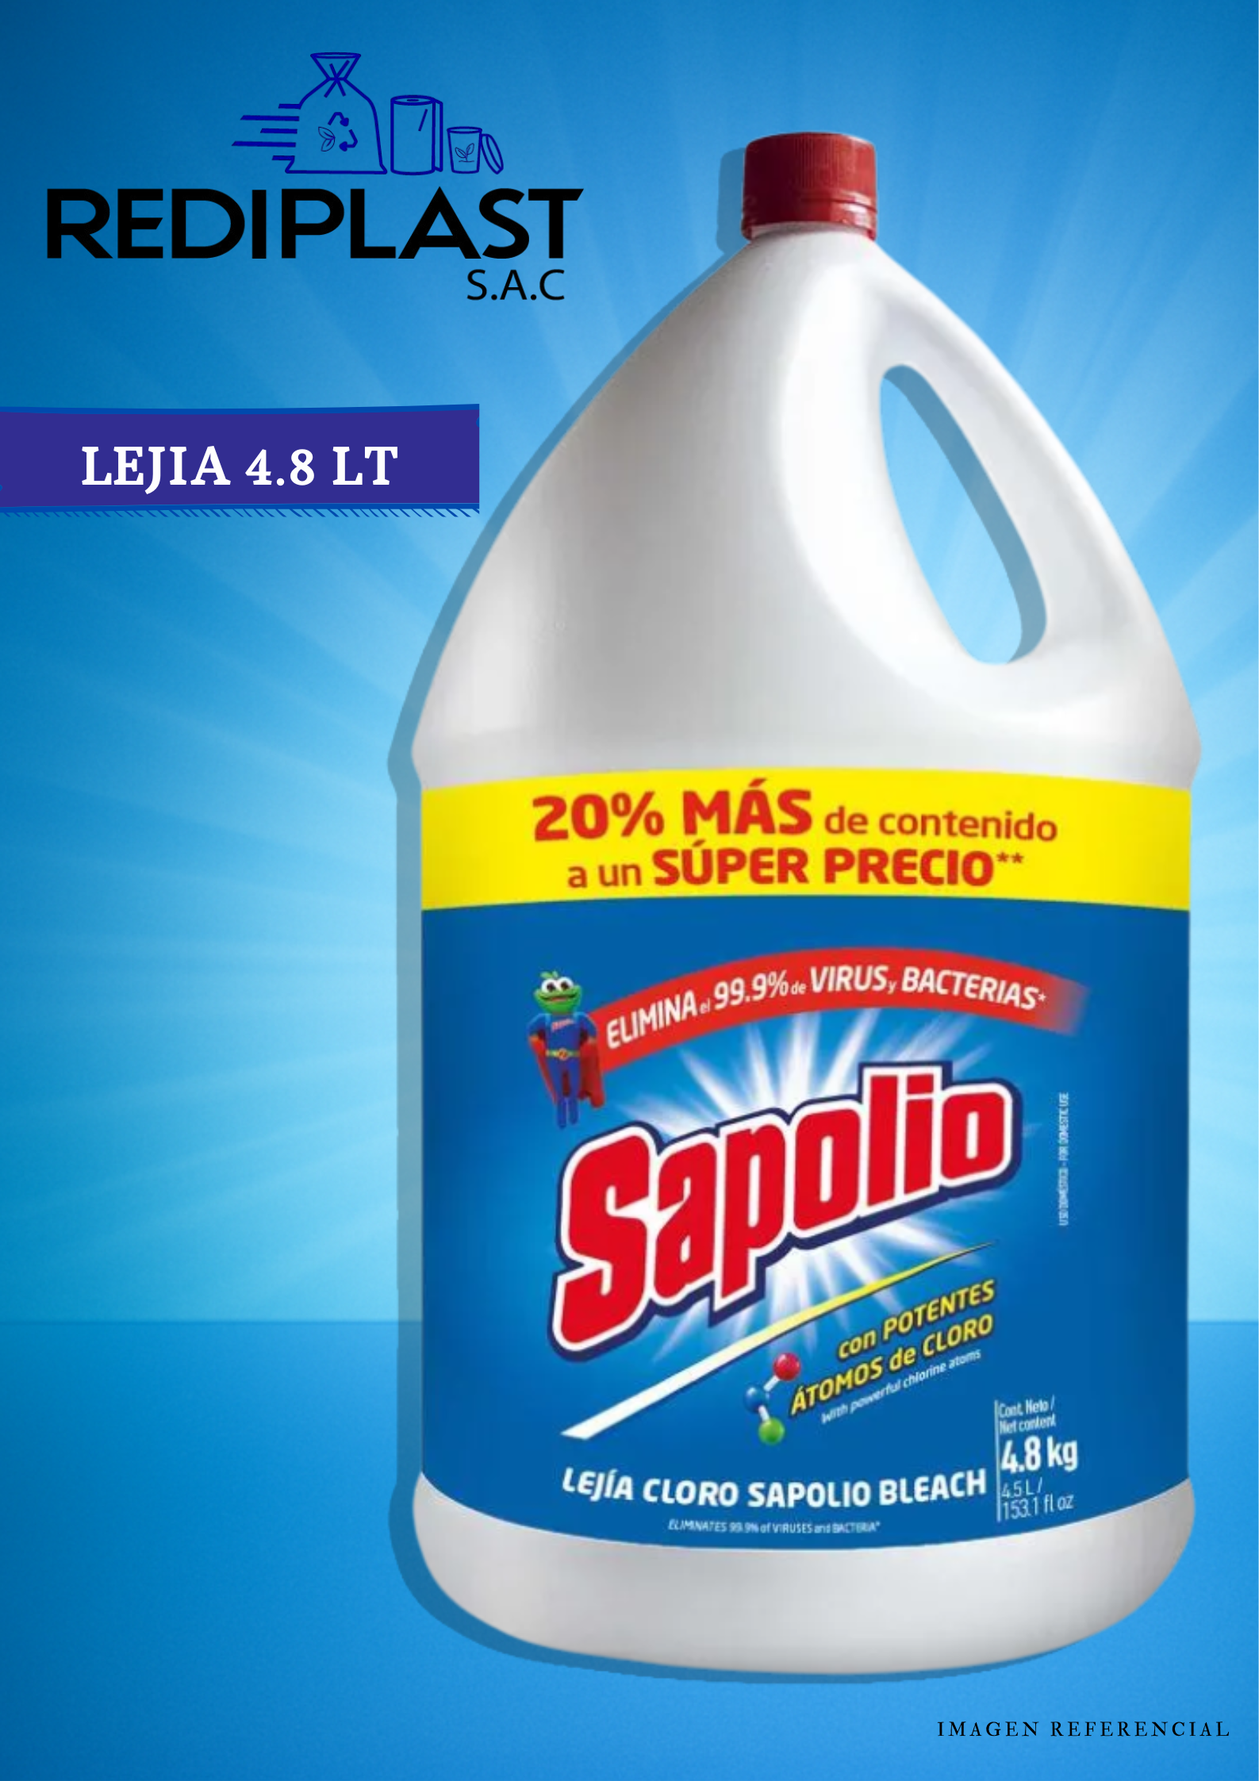
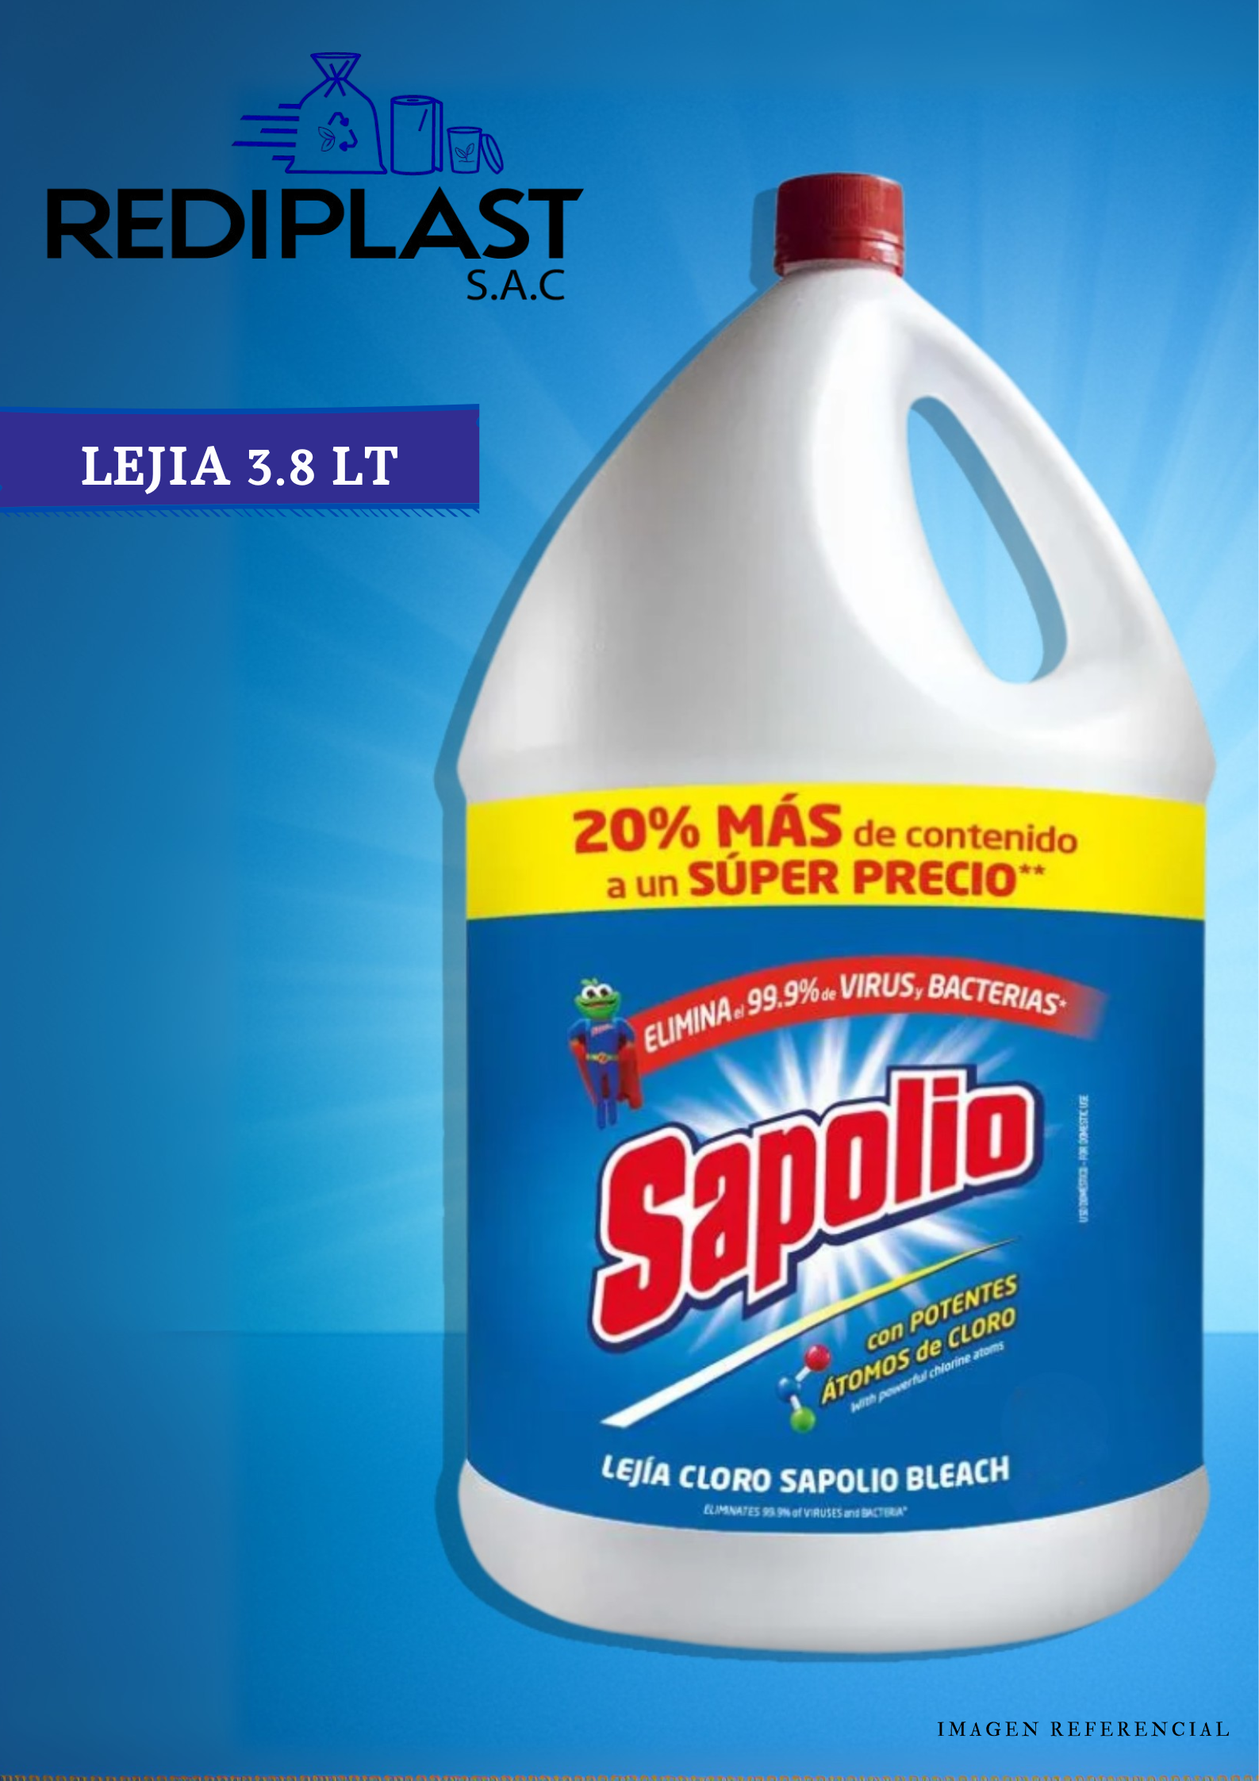
Add files via upload

diff --git a/index.html b/index.html
@@ -232,7 +232,9 @@ const PNG_SHOW_HEADER_LOGO = false; // false = oculta logo en imagen/WhatsApp
     { name: "LAETUS S.A.C.", ruc: "20492212581" },
     { name: "OKALE S.A.C.", ruc: "20522049761" },
     { name: "WYCH INVERSIONES S.A.C.", ruc: "20425476115" },
-    { name: "PRODUCTOS Y SERVICIOS VLADY S.A.C.", ruc: "20202540334" }
+    { name: "PRODUCTOS Y SERVICIOS VLADY S.A.C.", ruc: "20202540334" },
+    { name: "BRISA ASOCIADOS S.A.C", ruc: "20605268812" },
+    { name: "GRUPO IVA S.A.C", ruc: "20601211433" }
   ];
 
   const empresaSelect = document.getElementById('empresaSelect');
@@ -264,12 +266,12 @@ const PNG_SHOW_HEADER_LOGO = false; // false = oculta logo en imagen/WhatsApp
     { name:"BOLSA ZIPLOC 3X3", img:"imagenes/3-3.png", unit:"MILLAR" },
     { name:"BOLSA ZIPLOC 3X4", img:"imagenes/3-4.png", unit:"MILLAR" },
     { name:"BOLSA ZIPLOC 3X5", img:"imagenes/3-5.png", unit:"MILLAR" },
-    { name:"BOLSA EN ROLLOS", img:"imagenes/rollo1.png", unit:"MILLAR" },
+    { name:"BOLSA EN ROLLOS", img:"imagenes/rollo2.png", unit:"MILLAR" },
     { name:"BOLSA DE DESECHOS", img:"imagenes/bolsanegra.png", unit:"MILLAR" },
     { name:"BOLSA DE DESECHOS", img:"imagenes/bolsanaranja.png", unit:"MILLAR" },
     { name:"BOLSA DE DESECHOS", img:"imagenes/bolsaverde.png", unit:"MILLAR" },
     { name:"BOLSA DE DESECHOS", img:"imagenes/bolsaazul.png", unit:"MILLAR" },
-    { name:"LEJIA 4.8 LT", img:"imagenes/lejia.png", unit:"UNIDAD" },
+    { name:"LEJIA 3.8 LT", img:"imagenes/lejia.png", unit:"UNIDAD" },
     { name:"DETERGENTE 13.5 KG", img:"imagenes/detergente.png", unit:"UNIDAD" },
     { name:"VASO CORRUGADO", img:"imagenes/corrugado.png", unit:"UNIDAD" },
   ];
@@ -316,7 +318,7 @@ const PNG_SHOW_HEADER_LOGO = false; // false = oculta logo en imagen/WhatsApp
       { name:"BOLSA A/D T-SHIRT 34CMX34CM PORTAVASOS PB", code:"1010010142", unit:"MILLAR", img:"imagenes/mantenimiento.png" },
       { name:"CAJA BISAGRA PET 08 OZ FRAMBUESERO 4X4 H54 (100102)", code:"2040040053", unit:"UNIDAD", img:"imagenes/mantenimiento.png" },
       { name:"GUANTE DE NITRILO T-L (NEGRO)", code:"4020010066", unit:"PAQUETE", img:"imagenes/mantenimiento.png" },
-      { name:"BOLSA A/D ROLLO 5X10 PB-MATIC", code:"1010010078", unit:"UNIDAD", img:"imagenes/rollo1.png" }
+      { name:"BOLSA A/D ROLLO 5X10 PB-MATIC", code:"1010010078", unit:"UNIDAD", img:"imagenes/mantenimiento.png" }
     ],
         "20502301552": [/*URSUS RESTAURANTES S.A.C. - GENERADO*/ 
       { name:"BOLSA B/D P/BASURA 140 LT. NEGRO STD C/F", code:"1010020170", unit:"MILLAR", img:"imagenes/bolsanegra.png" },
@@ -328,7 +330,7 @@ const PNG_SHOW_HEADER_LOGO = false; // false = oculta logo en imagen/WhatsApp
       { name:"BOLSA BIOCOMPOST 19X20  T-SHIRT BCO - PB", code:"1010010173", unit:"MILLAR", img:"imagenes/mantenimiento.png" },
       { name:"BOLSA B/D P/BASURA 140 LT. CRISTAL I C/F", code:"1010020165", unit:"MILLAR", img:"imagenes/bolsaplomo.png" },
       { name:"PULVERIZADOR X 1/2 LT COMPLETO", code:"1040010042", unit:"UNIDAD", img:"imagenes/mantenimiento.png" },
-      { name:"BOLSA A/D ROLLO 7X10 PB-MATIC", code:"1010010080", unit:"UNIDAD", img:"imagenes/rollo1.png" },
+      { name:"BOLSA A/D ROLLO 7X10 PB-MATIC", code:"1010010080", unit:"UNIDAD", img:"imagenes/mantenimiento.png" },
       { name:"CUCHARA CHICA 5 BCO. ECO", code:"2030020002", unit:"MILLAR", img:"imagenes/mantenimiento.png" },
       { name:"ESCOBILLON LIMPIA PARRILLAS (7CMX24CM)", code:"3020010113", unit:"UNIDAD", img:"imagenes/mantenimiento.png" },
       { name:"CUCHILLO MEDIANO 6 BCO.", code:"2030020007", unit:"MILLAR", img:"imagenes/mantenimiento.png" },
@@ -360,7 +362,7 @@ const PNG_SHOW_HEADER_LOGO = false; // false = oculta logo en imagen/WhatsApp
       { name:"BOLSA BIOCOMPOST 19X20  T-SHIRT BCO - PB", code:"1010010173", unit:"MILLAR", img:"imagenes/mantenimiento.png" },
       { name:"BOLSA B/D P/BASURA 140 LT. CRISTAL I C/F", code:"1010020165", unit:"MILLAR", img:"imagenes/bolsaploma.png" },
       { name:"PULVERIZADOR X 1/2 LT COMPLETO", code:"1040010042", unit:"UNIDAD", img:"imagenes/mantenimiento.png" },
-      { name:"BOLSA A/D ROLLO 7X10 PB-MATIC", code:"1010010080", unit:"UNIDAD", img:"imagenes/rollo1.png" },
+      { name:"BOLSA A/D ROLLO 7X10 PB-MATIC", code:"1010010080", unit:"UNIDAD", img:"imagenes/mantenimiento.png" },
       { name:"CUCHARA CHICA 5 BCO. ECO", code:"2030020002", unit:"MILLAR", img:"imagenes/mantenimiento.png" },
       { name:"ESCOBILLON LIMPIA PARRILLAS (7CMX24CM)", code:"3020010113", unit:"UNIDAD", img:"imagenes/mantenimiento.png" },
       { name:"CUCHILLO MEDIANO 6 BCO.", code:"2030020007", unit:"MILLAR", img:"imagenes/mantenimiento.png" },
@@ -392,7 +394,7 @@ const PNG_SHOW_HEADER_LOGO = false; // false = oculta logo en imagen/WhatsApp
       { name:"BOLSA BIOCOMPOST 19X20  T-SHIRT BCO - PB", code:"1010010173", unit:"MILLAR", img:"imagenes/mantenimiento.png" },
       { name:"BOLSA B/D P/BASURA 140 LT. CRISTAL I C/F", code:"1010020165", unit:"MILLAR", img:"imagenes/bolsaploma.png" },
       { name:"PULVERIZADOR X 1/2 LT COMPLETO", code:"1040010042", unit:"UNIDAD", img:"imagenes/mantenimiento.png" },
-      { name:"BOLSA A/D ROLLO 7X10 PB-MATIC", code:"1010010080", unit:"UNIDAD", img:"imagenes/rollo1.png" },
+      { name:"BOLSA A/D ROLLO 7X10 PB-MATIC", code:"1010010080", unit:"UNIDAD", img:"imagenes/mantenimiento.png" },
       { name:"CUCHARA CHICA 5 BCO. ECO", code:"2030020002", unit:"MILLAR", img:"imagenes/mantenimiento.png" },
       { name:"ESCOBILLON LIMPIA PARRILLAS (7CMX24CM)", code:"3020010113", unit:"UNIDAD", img:"imagenes/mantenimiento.png" },
       { name:"CUCHILLO MEDIANO 6 BCO.", code:"2030020007", unit:"MILLAR", img:"imagenes/mantenimiento.png" },
@@ -438,9 +440,9 @@ const PNG_SHOW_HEADER_LOGO = false; // false = oculta logo en imagen/WhatsApp
     ],
     "20608416545": [/*SUPER GUSTO S.A.C. - GENERADO*/
       { name:"BOLSA A/D 10X22X2 NAT.", code:"1010010004", unit:"MILLAR", img:"imagenes/mantenimiento.png" },
-      { name:"BOLSA A/D ROLLO 3X8 PB-MATIC", code:"1010010076", unit:"FARDO", img:"imagenes/rollo1.png" },
-      { name:"BOLSA A/D ROLLO 5X10 PB-MATIC", code:"1010010078", unit:"FARDO", img:"imagenes/rollo1.png" },
-      { name:"BOLSA A/D ROLLO 7X10 PB-MATIC", code:"1010010080", unit:"UNIDAD", img:"imagenes/rollo1.png" },
+      { name:"BOLSA A/D ROLLO 3X8 PB-MATIC", code:"1010010076", unit:"FARDO", img:"imagenes/mantenimiento.png" },
+      { name:"BOLSA A/D ROLLO 5X10 PB-MATIC", code:"1010010078", unit:"FARDO", img:"imagenes/mantenimiento.png" },
+      { name:"BOLSA A/D ROLLO 7X10 PB-MATIC", code:"1010010080", unit:"UNIDAD", img:"imagenes/mantenimiento.png" },
       { name:"BOLSA A/D ROLLO 12X17 PB-MATIC", code:"1010010087", unit:"UNIDAD", img:"imagenes/rollo2.png" },
       { name:"BOLSA A/D ROLLO 14X20 PB-MATIC (1.5 KG)", code:"1010010089", unit:"UNIDAD", img:"imagenes/rollo2.png" },
       { name:"BOLSA ASA PEAD 16X19 BLANCO - SGB", code:"1010010157", unit:"CIENTO", img:"imagenes/mantenimiento.png" },
@@ -469,7 +471,7 @@ const PNG_SHOW_HEADER_LOGO = false; // false = oculta logo en imagen/WhatsApp
       { name:"ESPONJA DE ACERO INOXIDABLE - UNICO", code:"3020010120", unit:"UNIDAD", img:"imagenes/mantenimiento.png" },
       { name:"ESPONJA II SISTEMA SCOTCH BRITE-3M", code:"3020010121", unit:"UNIDAD", img:"imagenes/mantenimiento.png" },
       { name:"LAVAVAJILLA SAP. U/C LIMON FCO X 500-INT", code:"3020010161", unit:"UNIDAD", img:"imagenes/mantenimiento.png" },
-      { name:"LEJIA TRADICIONAL SAP. X 1 GAL-INTR (8300093)", code:"3020010172", unit:"GALON", img:"imagenes/mantenimiento.png" },
+      { name:"LEJIA TRADICIONAL SAP. X 1 GAL-INTR (8300093)", code:"3020010172", unit:"GALON", img:"imagenes/lejia.png" },
       { name:"L-TODO SAP. LAVANDA X 3785 ML-INTR", code:"3020010197", unit:"GALON", img:"imagenes/mantenimiento.png" },
       { name:"MOPA ALGODÓN C/PALO-TASK", code:"3020010208", unit:"UNIDAD", img:"imagenes/mantenimiento.png" },
       { name:"RECOGEDOR C/JEBE-HUDE", code:"3020010248", unit:"UNIDAD", img:"imagenes/mantenimiento.png" },
@@ -491,9 +493,9 @@ const PNG_SHOW_HEADER_LOGO = false; // false = oculta logo en imagen/WhatsApp
     ],
     "20600431677": [/*RESTOINVESTMENTS S.A.C - GENERADO*/
       { name:"BOLSA A/D 10X22X2 NAT.", code:"1010010004", unit:"MILLAR", img:"imagenes/mantenimiento.png" },
-      { name:"BOLSA A/D ROLLO 3X8 PB-MATIC", code:"1010010076", unit:"FARDO", img:"imagenes/rollo1.png" },
-      { name:"BOLSA A/D ROLLO 5X10 PB-MATIC", code:"1010010078", unit:"FARDO", img:"imagenes/rollo1.png" },
-      { name:"BOLSA A/D ROLLO 7X10 PB-MATIC", code:"1010010080", unit:"UNIDAD", img:"imagenes/rollo1.png" },
+      { name:"BOLSA A/D ROLLO 3X8 PB-MATIC", code:"1010010076", unit:"FARDO", img:"imagenes/mantenimiento.png" },
+      { name:"BOLSA A/D ROLLO 5X10 PB-MATIC", code:"1010010078", unit:"FARDO", img:"imagenes/rollmantenimientoo1.png" },
+      { name:"BOLSA A/D ROLLO 7X10 PB-MATIC", code:"1010010080", unit:"UNIDAD", img:"imagenes/mantenimiento.png" },
       { name:"BOLSA A/D ROLLO 12X17 PB-MATIC", code:"1010010087", unit:"UNIDAD", img:"imagenes/rollo2.png" },
       { name:"BOLSA A/D ROLLO 14X20 PB-MATIC (1.5 KG)", code:"1010010089", unit:"UNIDAD", img:"imagenes/rollo2.png" },
       { name:"BOLSA ASA PEAD 16X19 BLANCO - SGB", code:"1010010157", unit:"CIENTO", img:"imagenes/mantenimiento.png" },
@@ -522,7 +524,7 @@ const PNG_SHOW_HEADER_LOGO = false; // false = oculta logo en imagen/WhatsApp
       { name:"ESPONJA DE ACERO INOXIDABLE - UNICO", code:"3020010120", unit:"UNIDAD", img:"imagenes/mantenimiento.png" },
       { name:"ESPONJA II SISTEMA SCOTCH BRITE-3M", code:"3020010121", unit:"UNIDAD", img:"imagenes/mantenimiento.png" },
       { name:"LAVAVAJILLA SAP. U/C LIMON FCO X 500-INT", code:"3020010161", unit:"UNIDAD", img:"imagenes/mantenimiento.png" },
-      { name:"LEJIA TRADICIONAL SAP. X 1 GAL-INTR (8300093)", code:"3020010172", unit:"GALON", img:"imagenes/mantenimiento.png" },
+      { name:"LEJIA TRADICIONAL SAP. X 1 GAL-INTR (8300093)", code:"3020010172", unit:"GALON", img:"imagenes/lejia.png" },
       { name:"L-TODO SAP. LAVANDA X 3785 ML-INTR", code:"3020010197", unit:"GALON", img:"imagenes/mantenimiento.png" },
       { name:"MOPA ALGODÓN C/PALO-TASK", code:"3020010208", unit:"UNIDAD", img:"imagenes/mantenimiento.png" },
       { name:"RECOGEDOR C/JEBE-HUDE", code:"3020010248", unit:"UNIDAD", img:"imagenes/mantenimiento.png" },
@@ -570,7 +572,7 @@ const PNG_SHOW_HEADER_LOGO = false; // false = oculta logo en imagen/WhatsApp
       { name:"SORBETON C/ENVOLTURA BCO. HAWAI", code:"2030030007", unit:"UNIDAD", img:"imagenes/mantenimiento.png" },
       { name:"MANGA B/D CRISTAL 30CM X 3.8", code:"1030020004", unit:"UNIDAD", img:"imagenes/mantenimiento.png" },
       { name:"ENVASE 4 ONZ C/TAPA TPTE. CACER-PAM", code:"2010020014", unit:"MILLAR", img:"imagenes/mantenimiento.png" },
-      { name:"BOLSA A/D ROLLO 5X10 PB-MATIC", code:"1010010078", unit:"UNIDAD", img:"imagenes/rollo1.png" },
+      { name:"BOLSA A/D ROLLO 5X10 PB-MATIC", code:"1010010078", unit:"UNIDAD", img:"imagenes/mantenimiento.png" },
       { name:"PALETA PLASTICA BLANCO 4X250UND", code:"2030070044", unit:"MILLAR", img:"imagenes/mantenimiento.png" },
       { name:"AMARRE DORADO", code:"2030070010", unit:"MILLAR", img:"imagenes/mantenimiento.png" },
       { name:"BOLSA A/D 18X26 BCO. OBA", code:"1010010017", unit:"MILLAR", img:"imagenes/mantenimiento.png" },
@@ -594,6 +596,83 @@ const PNG_SHOW_HEADER_LOGO = false; // false = oculta logo en imagen/WhatsApp
       { name:"TAPA CRISTAL P/ALUMINIO 1/2 KG", code:"2040060058", unit:"MILLAR", img:"imagenes/mantenimiento.png" },
       { name:"ENVASE 8 ONZ S/T TPTE-SGB", code:"2040060078", unit:"MILLAR", img:"imagenes/mantenimiento.png" },
       { name:"TAPA 8 P/ENV TPTE", code:"2040060070", unit:"MILLAR", img:"imagenes/mantenimiento.png" }
+    ],
+     "20605268812": [/*BRISA ASOCIADOS S.A.C - GENERADO*/
+      { name:"DETERGENTE SAPOLIO 13.5 KG (8410190)", code:"3020010366", unit:"UNIDAD", img:"imagenes/detergente.png" },
+      { name:"BOLSA B/D P/BASURA 75 LT. NEGRO C/F ECO", code:"1010020251", unit:"MILLARES", img:"imagenes/bolsanegra.png" },
+      { name:"BOLSA A/D ROLLO 14X20 PB-MATIC (1.5 KG)", code:"1010010089", unit:"UNIDAD", img:"imagenes/rollo2.png" },
+      { name:"BOLSA A/D C/JALADOR 7X10 STMICA", code:"1010010062", unit:"PAQUETE", img:"imagenes/mantenimiento.png" },
+      { name:"CUCHARA BISTROT SERIES CRISTAL", code:"2030010001", unit:"MILLARES", img:"imagenes/mantenimiento.png" },
+      { name:"CUCHILLO BISTROT SERIES CRISTAL", code:"2030010008", unit:"MILLARES", img:"imagenes/mantenimiento.png" },
+      { name:"TAPA BOCA (MASCARILLA 3 PLIEGUES)", code:"4020010048", unit:"CAJA", img:"imagenes/mantenimiento.png" },
+      { name:"LAMINA A/D ANTIGRASA 50X70 (500 HOJAS) PB", code:"1020010006", unit:"RESMA", img:"imagenes/mantenimiento.png" },
+      { name:"ESPONJA II SISTEMA SCOTCH BRITE-3M", code:"3020010121", unit:"UNIDAD", img:"imagenes/mantenimiento.png" },
+      { name:"ESCOBON DALIA-TASK", code:"3020010115", unit:"PIEZAS", img:"imagenes/mantenimiento.png" },
+      { name:"RECOGEDOR C/JEBE-HUDE", code:"3020010248", unit:"UNIDAD", img:"imagenes/mantenimiento.png" },
+      { name:"COPA SOUFLE 2 ONZ", code:"2030040009", unit:"MILLARES", img:"imagenes/soufle.png" },
+      { name:"TAPA 1.5 ONZ, 2 ONZ, 2.5 ONZ-DAR", code:"2040060061", unit:"MILLARES", img:"imagenes/soufle.png" },
+      { name:"BOLSA A/D 20X30 NEGRO ECO", code:"1010010029", unit:"PAQUETE", img:"imagenes/mantenimiento.png" },
+      { name:"TENEDOR BISTROT SERIES CRISTAL", code:"2030010011", unit:"MILLARES", img:"imagenes/mantenimiento.png" },
+      { name:"LAVAVAJILLA SAP. POTE X 800 Gr -INT (8305259)", code:"3020010348", unit:"UNIDAD", img:"imagenes/mantenimiento.png" },
+      { name:"BOLSA B/D P/BASURA 140 LT. NEGRO C/F ECO", code:"1010020168", unit:"MILLARES", img:"imagenes/bolsanegra.png" },
+      { name:"LIMPIA VIDRIOS X 1 GAL", code:"3020010181", unit:"UNIDAD", img:"imagenes/mantenimiento.png" },
+      { name:"ESPONJA METALICA CHICA", code:"3020010124", unit:"UNIDAD", img:"imagenes/mantenimiento.png" },
+      { name:"PALETINA LARGA", code:"2030070032", unit:"MILLARES", img:"imagenes/mantenimiento.png" },
+      { name:"BOLSA PPP 6X10X2", code:"1010040128", unit:"MILLARES", img:"imagenes/mantenimiento.png" },
+      { name:"BROCHETE NRO. 6", code:"2030070014", unit:"PAQUETE", img:"imagenes/mantenimiento.png" },
+      { name:"BOLSA PPP 5X10X2", code:"1010040059", unit:"MILLARES", img:"imagenes/mantenimiento.png" },
+      { name:"TRAPEADOR DE FELPA", code:"3020010286", unit:"PIEZAS", img:"imagenes/mantenimiento.png" },
+      { name:"LEJIA TRADICIONAL SAP. X 1 GAL-INTR (8300093)", code:"3020010172", unit:"GALON", img:"imagenes/lejia.png" },
+      { name:"PAÑO MICROFIBRA 40CMX38CM", code:"3020010409", unit:"UNIDAD", img:"imagenes/mantenimiento.png" },
+      { name:"BOLSA A/D 26X40 NEGRO ECO", code:"1010010040", unit:"PAQUETE", img:"imagenes/mantenimiento.png" },
+      { name:"BOLSA A/D ROLLO 10X15 PB-MATIC", code:"1010010084", unit:"UNIDAD", img:"imagenes/rollo2.png" },
+      { name:"ESCOBILLA PLANCHA-HUDE", code:"1040010033", unit:"UNIDAD", img:"imagenes/mantenimiento.png" },
+      { name:"FILM P/ALIMENTOS 12X1400 MT", code:"4010010002", unit:"PIEZAS", img:"imagenes/mantenimiento.png" },
+      { name:"BOLSA PPP 6X12X2", code:"1010040130", unit:"MILLARES", img:"imagenes/mantenimiento.png" },
+      { name:"ENCENDEDOR DE COCINA", code:"2030070017", unit:"PIEZAS", img:"imagenes/mantenimiento.png" },
+      { name:"BOLSA B/D P/BASURA 75 LT. NEGRO STD", code:"1010020331", unit:"MILLARES", img:"imagenes/bolsanegra.png" },
+      { name:"TRAPEADOR MICROFIBRA \"P\" C/OJAL 45CMX72CM", code:"3020010400", unit:"UNIDAD", img:"imagenes/mantenimiento.png" },
+      { name:"MOPA SUPERABSORBENTE HILO TRENZADO -TASK", code:"3020010209", unit:"PIEZAS", img:"imagenes/mantenimiento.png" },
+      { name:"GORRO DE ENFERMERA C/ELAST BCO ENDOMEDIC", code:"4020010010", unit:"CAJA", img:"imagenes/mantenimiento.png" },
+      { name:"GAS ULTRA REFINADO PARA ENCENDEDORES - DRAGON", code:"3020010133", unit:"UNIDAD", img:"imagenes/mantenimiento.png" },
+      { name:"LAVAVAJILLA SAP. U/C  BIDON X 5 LT-INT (8305301)", code:"3020010160", unit:"PIEZAS", img:"imagenes/mantenimiento.png" },
+      { name:"AROMA AMOR SAP. FRUTA F. SPRAY X 396 ML", code:"3020010014", unit:"UNIDAD", img:"imagenes/mantenimiento.png" },
+      { name:"ESPONJA LA ECONOMICA X 12 UND", code:"3020010406", unit:"UNIDAD", img:"imagenes/mantenimiento.png" },
+      { name:"POETT FCO X 648 ML", code:"3020010234", unit:"UNIDAD", img:"imagenes/mantenimiento.png" },
+      { name:"LUSTRAMUEBLES PREMIO ORIGINAL FCO X280 ML SAP-INTRA", code:"3020010205", unit:"UNIDAD", img:"imagenes/mantenimiento.png" },
+      { name:"BALDE 20 LT C/CAÑO -REY", code:"1040010011", unit:"UNIDAD", img:"imagenes/mantenimiento.png" },
+      { name:"ESCOBON HUDE", code:"3020010116", unit:"UNIDAD", img:"imagenes/mantenimiento.png" },
+      { name:"BOLSA A/D ROLLO 7X10 PB-MATIC", code:"1010010080", unit:"UNIDAD", img:"imagenes/mantenimiento.png" },
+      { name:"GORRO DE ENFERMERA C/ELAST NEGRO", code:"4020010069", unit:"CAJA", img:"imagenes/mantenimiento.png" },
+      { name:"HISOPO DE BAÑO C/BASE-HUDE", code:"3020010134", unit:"UNIDAD", img:"imagenes/mantenimiento.png" },
+      { name:"ALL-FILM WRAP P/ALIMENTOS 12X1400 MT", code:"4010010008", unit:"PIEZAS", img:"imagenes/mantenimiento.png" },
+      { name:"BOLSA A/D 18X26 NEGRO ECO", code:"1010010018", unit:"PAQUETE", img:"imagenes/mantenimiento.png" },
+      { name:"AROMA AMOR SAP. BEBE SPRAY X 360 ML-INTR", code:"3020010011", unit:"UNIDAD", img:"imagenes/mantenimiento.png" },
+      { name:"ENVASE ALUMINIO 1/4 KG", code:"2040010004", unit:"MILLARES", img:"imagenes/mantenimiento.png" },
+      { name:"TAPA CRISTAL P/ALUMINIO 1/4 KG", code:"2040060059", unit:"MILLARES", img:"imagenes/mantenimiento.png" },
+      { name:"CANASTILLA PARA URINARIO BCO", code:"3020010029", unit:"UNIDAD", img:"imagenes/mantenimiento.png" },
+      { name:"ENVASE 8 ONZ POLIPAPEL BCO HELADO", code:"2040050013", unit:"MILLARES", img:"imagenes/mantenimiento.png" },
+      { name:"CONT TPTE TRIANGULAR-DAR", code:"2040060046", unit:"MILLARES", img:"imagenes/mantenimiento.png" },
+      { name:"VELAS CHISPAS X 20", code:"2030070041", unit:"CAJA", img:"imagenes/mantenimiento.png" },
+      { name:"ENVASE 6 ONZ POLIPAPEL BCO HELADO", code:"2040050012", unit:"MILLARES", img:"imagenes/mantenimiento.png" },
+      { name:"PAPEL ALUMINIO 12X1000 FT (304 MT)", code:"4030010001", unit:"UNIDAD", img:"imagenes/mantenimiento.png" },
+      { name:"BOLSA PPP 3X8", code:"1010040036", unit:"MILLARES", img:"imagenes/mantenimiento.png" },
+      { name:"COPA VENECIANA 8 ONZ C/TAPA", code:"2030040015", unit:"MILLARES", img:"imagenes/mantenimiento.png" },
+      { name:"PULVERIZADOR X 1 LT COMPLETO.", code:"1040010041", unit:"UNIDAD", img:"imagenes/mantenimiento.png" },
+      { name:"PALETA PLASTICA BLANCO 4X250UND", code:"2030070044", unit:"MILLARES", img:"imagenes/mantenimiento.png" },
+      { name:"ESCOBILLA DE FIERRO", code:"3020010108", unit:"UNIDAD", img:"imagenes/mantenimiento.png" },
+      { name:"ENVASE 1 LT RED. C/TAPA TPTE CACER", code:"2010020012", unit:"MILLARES", img:"imagenes/mantenimiento.png" },
+      { name:"ESCOBA NEGRA DE 4 HILERAS", code:"3020010101", unit:"UNIDAD", img:"imagenes/mantenimiento.png" },
+      { name:"REMOVEDOR DE SARRO X 1 GAL", code:"3020010256", unit:"US GALON (3,7843 L)", img:"imagenes/mantenimiento.png" },
+      { name:"ENVASE 8 ONZ S/T TPTE-SGB", code:"2040060078", unit:"MILLARES", img:"imagenes/mantenimiento.png" },
+      { name:"TAPA 8 P/ENV TPTE", code:"2040060070", unit:"MILLARES", img:"imagenes/mantenimiento.png" },
+      { name:"GUANTES INDUST.CALIBRE 25 T- 8", code:"4020010028", unit:"PAR", img:"imagenes/mantenimiento.png" },
+      { name:"PAPEL MANTECA 50X70 GRASA 450 HJS APROX.", code:"4030010005", unit:"PAQUETE", img:"imagenes/mantenimiento.png" },
+      { name:"DESATORADOR DE BAÑO PLASTICO - HUDE", code:"3020010060", unit:"PIEZAS", img:"imagenes/mantenimiento.png" },
+      { name:"ENVASE 1/2 LT RED. TPTE C/TAPA CACER", code:"2010020013", unit:"MILLARES", img:"imagenes/mantenimiento.png" }
+    ],
+     "20601211433": [/*GRUPO IVA S.A.C  - GENERADO*/
+
     ],
     /*"RUC00000": [PARA CREAR - GENERADO
       { name:"", code:"", unit:"", img:"imagenes/mantenimiento.png" },
@@ -1232,4 +1311,3 @@ try {
 </script>
 </body>
 </html>
-
